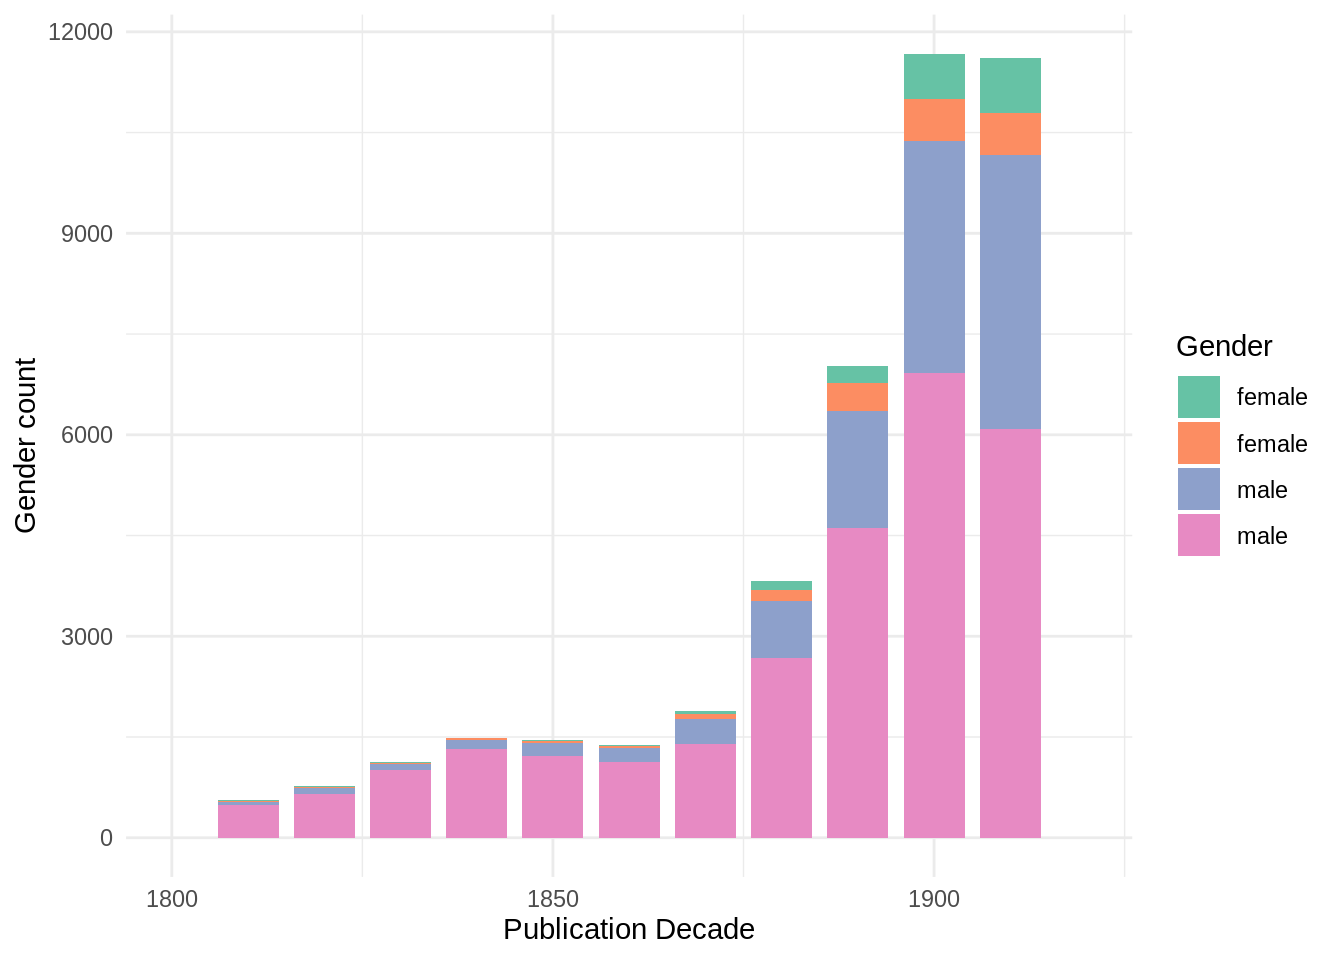
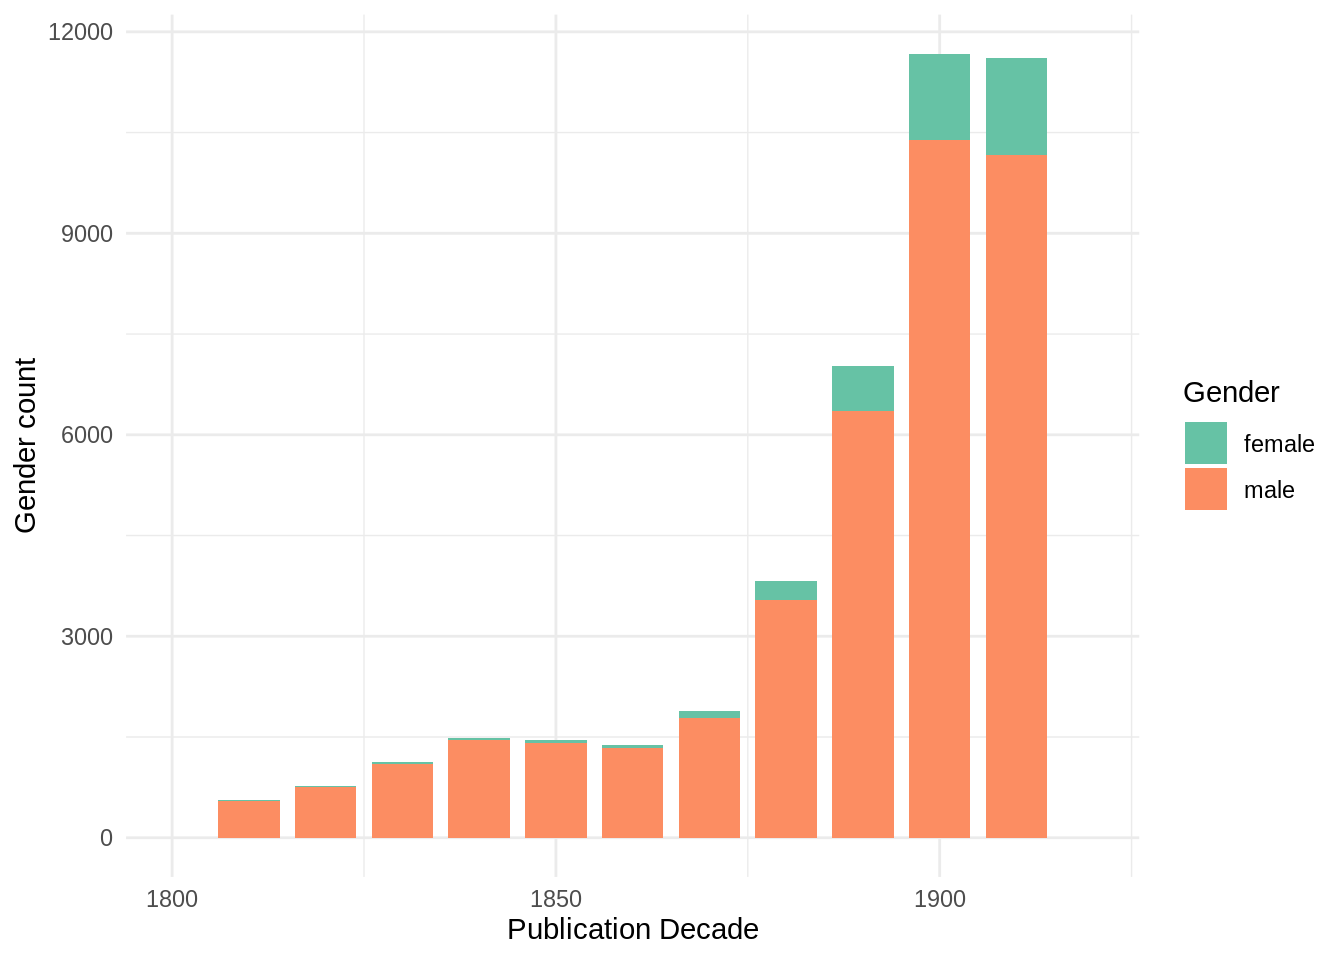
update2 gender

diff --git a/inst/examples/_book/gender.html b/inst/examples/_book/gender.html
@@ -282,7 +282,7 @@ ul.task-list li input[type="checkbox"] {
 <section id="authors-gender" class="level2" data-number="4.1">
 <h2 data-number="4.1" class="anchored" data-anchor-id="authors-gender"><span class="header-section-number">4.1</span> Author’s Gender</h2>
 <p>Gender information is not originally included in Fennica. We enriched the data by linking author names with gender information from various sources, including the HENKO project, the Genderize dataset, manual curation and search, and additional records provided by the National Library of Finland. The full list of names and genders can be found <a href="https://github.com/fennicahub/fennica/blob/master/inst/extdata/fennica_name_genders.csv">here</a>.</p>
-<p>In total N = 1229782 records. After enrichment in total there are records 939699 / (76.4%) with assigned gender. There are 153632 (16.3%) female names, 293578 (31.2%) male names and 0 (0%) unisex names.</p>
+<p>In total N = 1229782 records. After enrichment in total there are records 939699 / (76.4%) with assigned gender. There are 334864 (35.6%) female names, 604835 (64.4%) male names and 0 (0%) unisex names.</p>
 <section id="gender-over-time-1600-2000" class="level3" data-number="4.1.1">
 <h3 data-number="4.1.1" class="anchored" data-anchor-id="gender-over-time-1600-2000"><span class="header-section-number">4.1.1</span> Gender over Time (1600-2000)</h3>
 <div class="cell">
